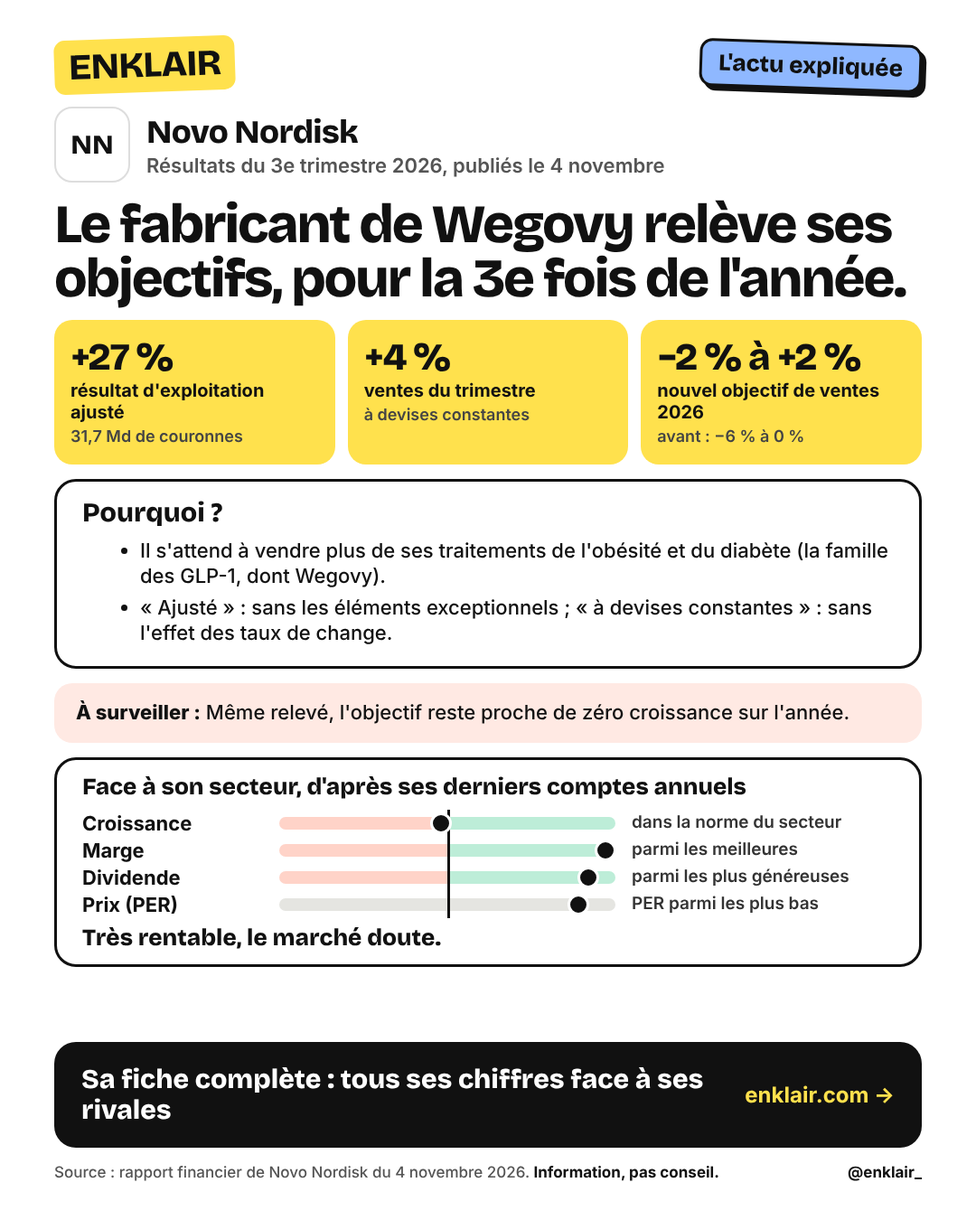
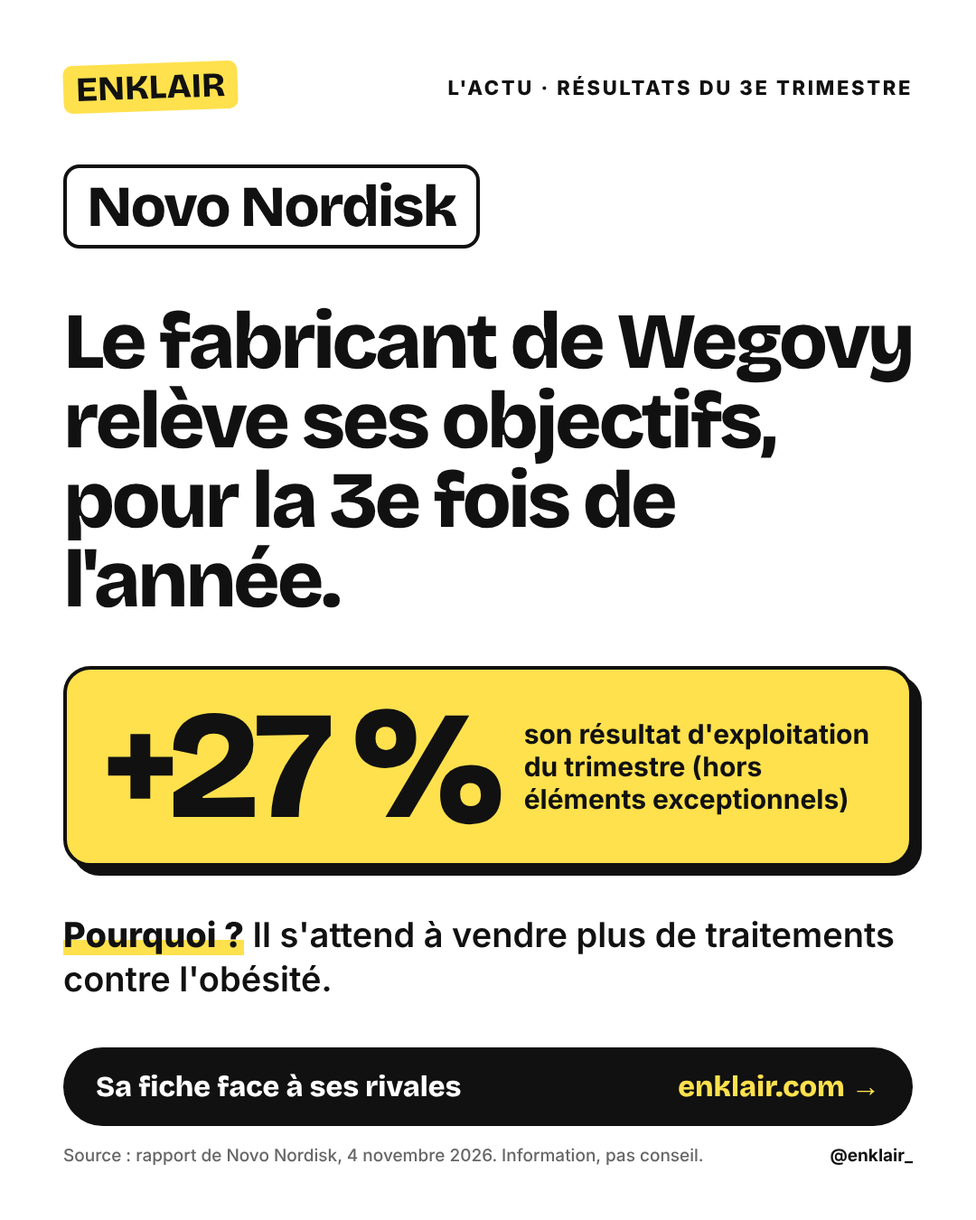
Contrôle de toutes les fiches et 148 fiches corrigées ; 5 fiches complètes par jour en gratuit ; page Premium ; posts
Claude-Session: https://claude.ai/code/session_01Jnxfj4FqaD4UGSiMxps8rU

diff --git a/cf/site/m/fiche4.js b/cf/site/m/fiche4.js
@@ -95,7 +95,9 @@ async function pageCompany4(id, tab) {
   if (s.missing || !c || !c.fin) { app.innerHTML = `<div class="ek ek-page">${f4Tete(s, null, null)}<p class="ek-note" style="margin-top:30px">Les comptes de ${esc(s.name)} ne sont pas encore relevés sur le site.</p></div>`; return; }
   const ctx = f4Ctx(s, c);
   let html = "";
-  try { html = f4Tete(s, c, ctx) + f4MetierSec(ctx) + f4Fil(ctx) + `<div id="f4-annee"></div>` + f4Fin(ctx); }
+  const qf = f4Quota(s.id); // 6/11 (Romain) : 5 fiches complètes par jour en gratuit
+  if (qf.bloque) { app.innerHTML = `<div class="ek ek-page">${f4Tete(s, c, ctx)}${f4Verrou(s)}</div>`; window.F4X = ctx; try { navigator.sendBeacon && navigator.sendBeacon("/api/compteur?e=fiche-verrou"); } catch (e) { } return; }
+  try { html = f4Tete(s, c, ctx) + f4QuotaNote(qf) + f4MetierSec(ctx) + f4Fil(ctx) + `<div id="f4-annee"></div>` + f4Fin(ctx); }
   catch (e) { console.error("fiche v4", e); html = f4Tete(s, c, ctx) + `<p class="ek-note">Une partie de la fiche n'a pas pu s'afficher.</p>`; }
   app.innerHTML = `<div class="ek ek-page">${html}</div>`;
   const kfx = f4Kfx(s.currency), md = app.querySelector(".ek-medl");
@@ -105,6 +107,30 @@ async function pageCompany4(id, tab) {
   const ANC = { "rf-resultats": "e1", "rf-rentab": "e2", "rf-dette": "e3", "rf-div": "e4", "rf-valo": "e5", "f3-metier": "metier", "tous-les-chiffres": "tout", "rf-concurrents": "tout", "concurrents": "tout" }; // anciennes ancres (liens déjà partagés)
   const h0 = location.hash.slice(1), cible = tab === "comptes" ? "tout" : (tab === "actualite" || tab === "agenda" || tab === "communaute") ? "actu" : (ANC[h0] || h0);
   if (cible) { const t = document.getElementById(cible); if (t) setTimeout(() => { if (t.tagName === "DETAILS") t.open = true; t.classList.add("f4m-open"); t.scrollIntoView({ block: "start" }); }, 30); }
+}
+
+/* 6/11 (décision de Romain) : en gratuit, 5 fiches complètes par jour (entreprises différentes, comptées dans ce navigateur, clé bilan.fichesJour).
+   Au-delà : l'en-tête et les 5 repères restent ouverts, la suite est réservée à Premium. Toujours ouvertes : Premium, les favoris,
+   les robots (moteurs de recherche, aperçus de liens) et une fiche déjà ouverte dans la journée. */
+const F4_LIBRES = 5;
+function f4Quota(id) {
+  const libre = { libre: true };
+  try {
+    if ((typeof isPrem === "function" && isPrem()) || navigator.webdriver || /bot|crawl|spider|slurp|preview|facebookexternalhit|embedly|lighthouse/i.test(navigator.userAgent || "") || (typeof isFav === "function" && isFav("c:" + id))) return libre;
+    const j = new Date().toLocaleDateString("sv-SE"); let q = null;
+    try { q = JSON.parse(localStorage.getItem("bilan.fichesJour") || "null"); } catch (e) { }
+    if (!q || q.d !== j || !Array.isArray(q.ids)) q = { d: j, ids: [] };
+    if (!q.ids.includes(id)) { if (q.ids.length >= F4_LIBRES) return { bloque: true }; q.ids.push(id); localStorage.setItem("bilan.fichesJour", JSON.stringify(q)); }
+    return { n: q.ids.indexOf(id) + 1 };
+  } catch (e) { return libre; }
+}
+function f4QuotaNote(qf) { return qf && qf.n ? `<p class="f4-qt"><b>Fiche gratuite ${qf.n} / ${F4_LIBRES} aujourd'hui</b><a href="/premium">Toutes les fiches avec Premium →</a></p>` : ""; }
+function f4Verrou(s) {
+  return `<section class="f4-lock"><span class="ek-stk2">★ Premium</span><h2>Vous avez ouvert vos ${F4_LIBRES} fiches gratuites du jour.</h2>
+    <p>La suite de la fiche de ${esc(s.name)} est réservée aux abonnés Premium :</p>
+    <ul><li>L'histoire de ses comptes en 4 étapes</li><li>Ses rivales, point par point</li><li>Tous ses chiffres sur 5 ans, avec la source</li><li>Son rang dans son secteur</li></ul>
+    <div class="f4-lock-b"><a class="f4-lock-go" href="/premium">Passer à Premium <small>dès 3,25 € par mois</small></a><span>ou revenez demain : ${F4_LIBRES} nouvelles fiches</span></div>
+    <p class="f4-lock-n">39 € pour un an (3,25 € par mois) ou 4,90 € par mois, sans engagement. Les entreprises que vous suivez en favori restent toujours ouvertes.</p></section>`;
 }
 
 // Logo officiel (collecté par le robot logos.yml dans /logos/<id>.png) ; sinon les initiales dans le même cadre
@@ -182,6 +208,7 @@ const f4Prochain = id => { const e = typeof eventsOf === "function" ? eventsOf(i
 function f4TitreSerie(gs, an) {
   if (!gs.length) return "";
   const [y1, g1] = gs[gs.length - 1], av = gs.slice(0, -1).map(z => z[1]), y0 = gs[0][0] - 1;
+  if (g1 <= -1) return `devenu négatif en ${y1}.`; // 6/11 : jamais « en baisse de 250 % »
   if (g1 < 0) return `en baisse de ${ekFr(-g1 * 100, 1)} % en ${y1}${av.length && av[av.length - 1] < 0 ? ", deuxième année de recul" : av.length && av.every(v => v > 0) ? `, premier recul depuis ${y0}` : ""}.`;
   const base = `en hausse de ${ekFr(g1 * 100, 1)} % en ${y1}`;
   if (av.length >= 2 && g1 < Math.min(...av)) return `${base}, sa plus faible progression depuis ${y0}.`;
@@ -194,7 +221,7 @@ function f4E1(x) {
   const gs = []; if (se) for (let i = 1; i < se.v.length; i++) if (se.v[i] != null && se.v[i - 1] > 0) gs.push([se.y[i], se.v[i] / se.v[i - 1] - 1]);
   const causes = [];
   const last = gs.length ? gs[gs.length - 1] : null, prev = gs.length > 1 ? gs[gs.length - 2] : null;
-  return { id: "e1", n: 1, sur: "Ses ventes", titre: f4TitreSerie(gs, s.year) || f4Montant(s.ca, cur, s.year), concept: s.ca != null ? { cle: "ventes", ex: f4Md(s.ca, cur), calc: `ventes ${s.year}`, nom: s.name } : null,
+  return { id: "e1", n: 1, sur: "Ses ventes", titre: (gs.length && se && gs[gs.length - 1][0] === se.y[se.y.length - 1] ? f4TitreSerie(gs, s.year) : "") || f4Montant(s.ca, cur, s.year), concept: s.ca != null ? { cle: "ventes", ex: f4Md(s.ca, cur), calc: `ventes ${s.year}`, nom: s.name } : null,
     mots: [{ cle: "ventes", ex: f4Md(s.ca, cur), calc: `ventes ${s.year}`, nom: s.name }, { cle: "croissance", ex: f4Pc(M.g, 1, true), calc: `${ekFr(s.ca, 0)} ÷ ${ekFr(s.caPrev, 0)} − 1`, nom: s.name }],
     visuel: se ? f4Cols(x, se, "Ses ventes", null, `Chaque barre donne les ventes d'un exercice ; sous l'année, la variation par rapport à l'année d'avant.${gs.length >= 2 ? ` Depuis ${se.y[0]} : ${f4Pc(se.v[se.v.length - 1] / se.v.find(v => v > 0) - 1, 0, true)}.` : ""}`) : "",
     explique: causes.length ? ekExplique({ causes, surveiller: f4Prochain(s.id) }) : "",
@@ -244,7 +271,11 @@ function f4E2(x) {
     .filter(r => r.v == null || r.v > -1000);
   const pl = rows.filter(r => r.v != null).sort((a, b) => b.v - a.v), hors = rows.filter(r => r.v == null);
   const mx = Math.max(10, ...pl.map(r => r.v)), nn = f4Nice(mx), mn = Math.min(0, ...pl.map(r => r.v));
-  const pts = P.mode === "rivales" ? [...pl.map(r => ({ ...r, v: Math.max(0, r.v) })), ...hors, ...P.out.map(o => ({ nom: o.nom, v: null, texte: o.raison }))] : pl.filter(r => r.moi).concat(hors.filter(r => r.moi));
+  // 6/11 : marges négatives placées à gauche de zéro (comme la rentabilité, f4B2) ; au-delà de -nn.max, au bord avec une flèche et le chiffre en note
+  const pasM = nn.ticks.length > 1 ? nn.ticks[1] - nn.ticks[0] : nn.max / 5, mnM = mn < 0 ? -Math.min(nn.max, Math.ceil(-mn / pasM) * pasM) : 0;
+  const gradM = []; for (let t = mnM; t <= nn.max + 1e-9; t += pasM) gradM.push(Math.round(t * 100) / 100);
+  const borneM = r => r.v < mnM ? { ...r, note: `est hors de l'échelle : ${r.texte} gardés sur 100 ${sym}.` } : r;
+  const pts = P.mode === "rivales" ? [...pl.map(borneM), ...hors, ...P.out.map(o => ({ nom: o.nom, v: null, texte: o.raison }))] : pl.filter(r => r.moi).map(borneM).concat(hors.filter(r => r.moi));
   const ratio = v != null && med > 0 ? v / med : null;
   const qui2 = P.qui, cmpM = ratio == null ? "" : ratio > 4 ? `Bien plus que ${qui2} (${ekFr(med * 100, 0)} ${sym})` : ratio >= 1.8 && ratio < 2.2 ? `Presque deux fois plus que ${qui2}` : ratio >= 1.15 ? `${ekFr(ratio, 1)} fois plus que ${qui2}` : ratio <= 0.85 ? `Moins que ${qui2} (${ekFr(med * 100, 0)} ${sym})` : `Comme ${qui2}`;
   const tonM = ratio == null ? "n" : ratio >= 1.15 ? "g" : ratio <= 0.85 || v < 0 ? "r" : "n";
@@ -266,8 +297,8 @@ function f4E2(x) {
   return { id: "e2", n: 2, sur: "Sa marge", titre, cmp: { texte: cmpM, ton: tonM },
     concept: v != null ? { cle: bank ? "benefice" : "marge", ex: f4Pc(v, 1), calc: !bank && s.ebit != null ? `${ekFr(s.ebit, 0)} ÷ ${ekFr(s.ca, 0)}` : "", nom: s.name } : null,
     mots: [{ cle: bank ? "benefice" : "marge", ex: v != null ? f4Pc(v, 1) : "", calc: !bank && s.ebit != null ? `${ekFr(s.ebit, 0)} ÷ ${ekFr(s.ca, 0)}` : "", nom: s.name }, { cle: "mediane", ex: med != null ? ekFr(med * 100, 0) + " " + sym : "", calc: `${lib} médiane ${P.de}`, nom: s.name }],
-    visuel: v != null && pl.length ? ekPoints({ titre: `Gardés sur 100 ${sym} de ventes`, unite: `${lib} ${s.year}`, lignes: pts, mediane: med != null ? med * 100 : 0, mediane_label: med != null ? `médiane ${ekFr(med * 100, 0)} ${sym}` : "", max: nn.max, graduations: nn.ticks, fmtAxe: t => ekFr(t, 0) + " " + sym,
-      indice: `Chaque point place une entreprise sur l'échelle. À droite du pointillé (zone verte), elle garde plus que la ${P.mode === "rivales" ? "rivale" : "société"} du milieu ; à gauche (zone rouge), moins.${mn < 0 ? " Une marge négative est placée sur zéro." : ""}`, source: f4Src(x, `Comptes ${s.year}`) }) : "",
+    visuel: v != null && pl.length ? ekPoints({ titre: `Gardés sur 100 ${sym} de ventes`, unite: `${lib} ${s.year}`, lignes: pts, mediane: med != null ? med * 100 : 0, mediane_label: med != null ? `médiane ${ekFr(med * 100, 0)} ${sym}` : "", min: mnM, max: nn.max, graduations: gradM, fmtAxe: t => ekFr(t, 0) + " " + sym,
+      indice: `Chaque point place une entreprise sur l'échelle. À droite du pointillé (zone verte), elle garde plus que la ${P.mode === "rivales" ? "rivale" : "société"} du milieu ; à gauche (zone rouge), moins.${mn < mnM ? " Une marge plus basse que l'échelle est posée au bord, avec une flèche." : ""}`, source: f4Src(x, `Comptes ${s.year}`) }) : "",
     explique: causes.length ? ekExplique({ causes, surveiller: ralentit ? "Si les ventes ralentissent encore, la marge peut baisser : une partie des coûts est fixe." : f4Prochain(s.id) }) : "",
     suite: "Et une fois l'impôt payé, que reste-t-il ?" };
 }
@@ -292,7 +323,8 @@ function f4E3(x) {
     if (ng != null) { // la cause principale, dans le sens de la variation
       const K = [["act", dE], ["imp", dT], ["fin", fin1 != null && fin0 != null ? fin1 - fin0 : null]].filter(z => z[1] != null && (ng < 0 ? z[1] < 0 : z[1] > 0)).sort((a, b) => Math.abs(b[1]) - Math.abs(a[1]))[0];
       const pq = ng < 0 ? { act: "l'activité rapporte moins", imp: "l'impôt a pris plus", fin: "les intérêts et divers pèsent plus" } : { act: "grâce à l'activité", imp: "l'impôt a pris moins", fin: "grâce aux intérêts et divers" };
-      titre = `${ng < 0 ? "en baisse" : "en hausse"} de ${ekFr(Math.abs(ng) * 100, 1)} % en ${y1}${K ? (ng < 0 || K[0] === "imp" ? ", car " : " ") + pq[K[0]] : ""}.`; }
+      // 6/11 (Stellantis : « en baisse de 508,7 % ») : un bénéfice devenu une perte se dit en montants, pas en pourcentage
+      titre = ng <= -1 ? `${f4Montant(s.net, cur, y1).replace(/\.$/, "")}, après ${f4Md(s.netPrev, cur)} de bénéfice en ${y1 - 1}${K ? ", car " + pq[K[0]] : ""}.` : `${ng < 0 ? "en baisse" : "en hausse"} de ${ekFr(Math.abs(ng) * 100, 1)} % en ${y1}${K ? (ng < 0 || K[0] === "imp" ? ", car " : " ") + pq[K[0]] : ""}.`; }
   }
   if (!bank && s.netDebt != null) causes.push(s.netDebt <= 0 ? { titre: "Plus d'argent en caisse que de dettes", texte: `Même en remboursant tous ses emprunts, il lui resterait ${f4Md(-s.netDebt, cur)} : elle ne dépend pas des banques.` }
     : { titre: s.ebit > 0 && s.netDebt / s.ebit < 2 ? "Une dette légère" : s.ebit > 0 && s.netDebt / s.ebit <= 3 ? "Une dette à surveiller" : "Une dette lourde", texte: s.ebit > 0 ? `Elle doit ${f4Md(s.netDebt, cur)} : ${s.netDebt / s.ebit < 1.5 ? (s.netDebt / s.ebit < 1 ? "moins d'une année" : "environ une année") + " de ce que rapporte son activité suffirait" : `environ ${ekFr(s.netDebt / s.ebit, 0)} années de ce que rapporte son activité suffiraient`} à la rembourser.` : `Elle doit ${f4Md(s.netDebt, cur)}, alors que son activité ne rapporte rien cette année.` });

diff --git a/cf/site/app.js b/cf/site/app.js
@@ -1802,7 +1802,7 @@ function rfVerdictMots(s) { // le verdict en deux ou trois éléments, déduits 
 const AX_ICON = { croissance: "M3 17l5-6 4 3 5-7 4 4", marge: "M5 19L19 5M7 9a2 2 0 1 0 0-4 2 2 0 0 0 0 4zM17 19a2 2 0 1 0 0-4 2 2 0 0 0 0 4z", solidite: "M12 3l8 4v5c0 5-3.5 8.5-8 9-4.5-.5-8-4-8-9V7z", dividende: "M12 21a9 9 0 1 0 0-18 9 9 0 0 0 0 18zM9 10h6M9 14h6M14 7c-3 0-4 2.5-4 5s1 5 4 5", prix: "M3 12l9-9h9v9l-9 9zM16 8h.01" }; // icônes SVG du site (4e passage 3.2), jamais d'émojis
 const axIcon = k => `<svg class="pa2-ic" viewBox="0 0 24 24" fill="none" stroke="currentColor" stroke-width="1.8" stroke-linecap="round" stroke-linejoin="round" aria-hidden="true"><path d="${AX_ICON[k] || AX_ICON.croissance}"/></svg>`;
 /* ---------- Premium : jeton gardé sur l'appareil, quotas, incitations ---------- */
-const TKEY = "bilan.premium", FREE = { pf: Infinity, cmp: 5 }; // 4/11 : portefeuille sans limite de lignes pour tous ; comparaisons : 5 par semaine (cf/src/quota.mjs)
+const TKEY = "bilan.premium", FREE = { pf: Infinity, cmp: 3 }; // 4/11 : portefeuille sans limite de lignes pour tous ; comparaisons : 5 par semaine (cf/src/quota.mjs)
 function premTok() { try { return localStorage.getItem(TKEY) || ""; } catch (e) { return ""; } }
 function setPremTok(t) { try { t ? localStorage.setItem(TKEY, t) : localStorage.removeItem(TKEY); } catch (e) { } PREM = null; }
 let PREM = null, PREMP = null;
@@ -1865,8 +1865,9 @@ async function pagePremium(sub) {
   const rows = [ // 4/11 (décision de Romain) : une fonction est gratuite en entier ou réservée à Premium, plus de demi-version
     ["Fiches, médianes du secteur, actualité, agenda, outils, simulateurs, Apprendre", "✓ tout", "✓ tout"],
     ["Mon portefeuille : saisie, valeur, plus-value", "✓ sans limite de lignes", "✓"],
-    ["Comparer des entreprises (5 à la fois)", "5 comparaisons par semaine", "✓ sans limite"],
-    ["Questions à l'IA du site", "5 par semaine", "✓ 30 par jour"],
+    ["Fiches entreprises complètes", "5 par jour", "✓ sans limite"],
+    ["Comparer des entreprises (5 à la fois)", "3 comparaisons par semaine", "✓ sans limite"],
+    ["Questions à l'IA du site", "3 par semaine", "✓ 30 par jour"],
     ["Connecteur pour Claude ou ChatGPT", "–", "✓"],
     [`Alertes du soir : résultats publiés, veille des rendez-vous, mouvement de plus de 5 %, dernier jour pour toucher un dividende, plus haut ou plus bas sur un an${robotActif("alertes") ? "" : BIENTOT}`, "–", "✓ sur toutes vos valeurs"],
     ["Rapport de la semaine, sur mesure, 12 semaines gardées", "–", "✓"],
@@ -1888,10 +1889,10 @@ async function pagePremium(sub) {
     <div class="offers">${offer("unique", "Un an", OFFRES.prix_unique || "39 € pour un an", "Un seul paiement, douze mois d'accès, sans renouvellement automatique.", OFFRES.unique)}${offer("mensuel", "Mensuel", OFFRES.prix_mensuel || "4,90 € par mois", "Sans engagement, résiliable en ligne en deux clics.", OFFRES.mensuel)}</div>${essai}${attente}`}
     </div>
     </section><section class="ek-sec"><span class="ek-stk2 b">Ce que vous obtenez</span><h2>Quatre services que le gratuit n'a pas.</h2><div class="pr4-sv">
-      <div class="pr4-c" id="ia">${ic("ia")}<b>L'IA qui vous répond</b><p><b>30 questions par jour</b> à l'IA du site (5 par semaine sans Premium), tirées des comptes officiels et des médianes du secteur. Et le <b>connecteur</b> : Claude ou ChatGPT lisent ENKLAIR pour vous répondre.</p></div>
+      <div class="pr4-c" id="ia">${ic("ia")}<b>L'IA qui vous répond</b><p><b>30 questions par jour</b> à l'IA du site (3 par semaine sans Premium), tirées des comptes officiels et des médianes du secteur. Et le <b>connecteur</b> : Claude ou ChatGPT lisent ENKLAIR pour vous répondre.</p></div>
       <div class="pr4-c" id="alertes">${ic("ag")}<b>Prévenu quand une valeur chute</b><p><b>Une baisse de plus de 5 % dans la journée : notification le soir même</b>, sur votre téléphone${OFFRES.mail ? ", par e-mail" : ""} et dans Mon espace. Et pour toutes vos valeurs : résultats publiés avec leurs chiffres clés, veille des rendez-vous, <b>dernier jour pour toucher un dividende</b>, plus haut ou plus bas sur un an. Et chaque samedi, <b>votre rapport de la semaine</b>.</p><p><a class="lnk" href="/rapport-exemple">Voir un rapport en exemple →</a></p></div>
       <div class="pr4-c" id="portefeuille">${ic("pub")}<b>Votre portefeuille radiographié</b><p>Ce que vous possédez vraiment à travers vos ETF, vos expositions par pays et par secteur, ce qu'une baisse coûterait en euros, le calendrier de vos dividendes.</p></div>
-      <div class="pr4-c" id="donnees">${ic("mk")}<b>Comparer et classer sans limite</b><p>Les comparaisons d'entreprises sans compter (5 par semaine sans Premium), les cinq classements complets et l'export des chiffres de chaque fiche.</p></div>
+      <div class="pr4-c" id="donnees">${ic("mk")}<b>Comparer et classer sans limite</b><p>Les comparaisons d'entreprises sans compter (3 par semaine sans Premium), les cinq classements complets et l'export des chiffres de chaque fiche.</p></div>
     </div></section><section class="ek-sec"><span class="ek-stk2 b">Pourquoi ENKLAIR</span><h2>Ce que votre IA ne fait pas.</h2><div class="prem5">${ARG.map(([k, t, d, id], i) => `<details class="prem-a" id="${id}"><summary>${ic(k)}<b>${esc(t)}</b><span>${esc(d)}</span><em>La preuve</em></summary><div class="prem-pv" data-pv="${i}"><p class="muted">Chargement…</p></div></details>`).join("")}</div></section>
     <section class="panel" id="tableau"><div class="ph"><h2>Gratuit pour toujours, et ce que Premium ajoute</h2></div><div class="pb scroll-x" style="overflow-x:auto"><table class="t ptab"><thead><tr><th></th><th>Gratuit</th><th>Premium</th></tr></thead><tbody>${rows.map(r => `<tr><td>${r[0]}</td><td>${r[1]}</td><td><b>${r[2]}</b></td></tr>`).join("")}</tbody></table>
       <p class="note" style="margin:10px 0 0">L'information n'est jamais cachée : toutes les fiches, les médianes et les outils restent gratuits, en entier.</p></div></section>
@@ -2286,7 +2287,7 @@ function espaceConnexion() {
   // 3/11 (v4) : bandeau jaune, avantages en cartes à icône, formulaire en carte blanche (mêmes identifiants : espf, lt, espgo, espm, swap, lost, cgu)
   const ic = k => typeof ou4Ic === "function" ? ou4Ic(k) : "";
   const BEN = [["listes", "Un rapport chaque semaine", "Ce que vos entreprises et ETF ont publié, leurs cours, leurs dates à venir, la répartition de votre portefeuille."],
-    ["alerte", "L'IA du site", "5 questions par semaine sur une entreprise, un ETF ou une notion, réponses tirées des chiffres du site."],
+    ["alerte", "L'IA du site", "3 questions par semaine sur une entreprise, un ETF ou une notion, réponses tirées des chiffres du site."],
     ["pf", "Partout pareil", "Vos favoris, votre portefeuille et vos achats programmés, sur votre téléphone et votre ordinateur."],
     ["agenda", "Votre agenda", "Les résultats et dividendes de vos valeurs, portefeuille d'abord."]];
   app.innerHTML = `<div class="ek ek-page es4"><section class="ek-hero es4-hero"><div class="es4-l"><span class="mc-stk">Mon espace</span><h1 class="ag4-t">Vos valeurs, au même endroit.</h1>

diff --git a/cf/site/m/premium5.js b/cf/site/m/premium5.js
@@ -12,10 +12,12 @@
     ["Le résumé de la semaine de vos valeurs, chaque samedi", no, no, no, no, ok],
     ["Annonces officielles du monde entier, traduites et chiffrées", no, mi("en partie"), mi("si vous lui donnez le texte"), mi("sur chaque fiche"), '<span class="ok">✓ pour vos valeurs</span>'],
     ["Alerte le soir même si une de vos valeurs chute", mi("selon le courtier"), mi("avec un compte"), no, no, ok],
-    ["Questions à une IA qui cite les comptes officiels", no, no, mi("sans source"), mi("5 par semaine"), '<span class="ok">30 par jour</span>'],
+    ["Toutes les fiches entreprises, en entier", no, mi("en partie"), mi("de mémoire"), mi("5 par jour"), '<span class="ok">Sans limite</span>'],
+    ["Questions à une IA qui cite les comptes officiels", no, no, mi("sans source"), mi("3 par semaine"), '<span class="ok">30 par jour</span>'],
     ["Brancher Claude ou ChatGPT sur les comptes officiels", no, no, no, no, ok],
     ["Chaque entreprise face à ses vraies rivales", no, mi("en partie"), mi("de mémoire"), ok, ok],
-    ["Comparaisons et classements", no, mi("en partie"), no, mi("5 par semaine"), '<span class="ok">Sans limite</span>'],
+    ["Comparaisons et classements", no, mi("en partie"), no, mi("3 par semaine, sans classement"), '<span class="ok">Sans limite</span>'],
+    ["Son rang dans son secteur", no, mi("en partie"), no, no, ok],
     ["Sans pousser à acheter ni à vendre", mi("vit de vos ordres"), mi("rarement"), ok, ok, ok],
   ];
   const av = (num, titre, txt, pts, ailleurs, vis, inv) => `<div class="pm5-av${inv ? " inv" : ""}"><div class="pm5-tx"><p class="pm5-num">${num}</p><h3>${titre}</h3><p class="pm5-lead">${txt}</p>
@@ -56,7 +58,8 @@
     app.innerHTML = `<div class="ek ek-page pm5">
     <section class="pm5-hero"><div><span class="mc-stk">Premium</span><h1>Ce que votre courtier ne vous dit pas.</h1>
       <p class="pm5-lead">ENKLAIR lit chaque jour les documents officiels de ${F0.format(nCo)} entreprises, les compare à leurs rivales et vous dit ce qui change pour vos placements. En français, sources à l'appui.</p>
-      <div class="pm5-b3"><div><i>📰</i><p><b>Chaque samedi, votre rapport</b><span>Ce qui s'est passé pour vos valeurs, en deux minutes.</span></p></div>
+      <div class="pm5-b3"><div><i>★</i><p><b>Toutes les fiches, sans limite</b><span>Plus de 3 000 entreprises, chacune face à ses rivales.</span></p></div>
+        <div><i>📰</i><p><b>Chaque samedi, votre rapport</b><span>Ce qui s'est passé pour vos valeurs, en deux minutes.</span></p></div>
         <div><i class="r">🔔</i><p><b>Prévenu si une valeur chute</b><span>Plus de 5 % de baisse dans la journée : notification le soir même.</span></p></div>
         <div><i class="b">◎</i><p><b>Vos ETF passés aux rayons X</b><span>Ce que vous possédez vraiment, entreprise par entreprise.</span></p></div></div>
       <a class="pm5-ex" href="/rapport-exemple"><span class="pm5-ex-i">📰</span><span><b>Voir un vrai rapport de la semaine</b><small>Calculé aujourd'hui avec les chiffres du site, pour un portefeuille d'exemple</small></span><em>→</em></a></div>
@@ -66,12 +69,12 @@
       ${av("1 · Vos ETF aux rayons X", "Ce que vous possédez vraiment, à travers vos ETF.", "Un ETF Monde, c'est plus de 1 300 entreprises. Premium les additionne avec vos actions pour vous montrer vos vraies expositions.", ["Vos expositions par pays et par secteur", "Ce qu'une forte baisse coûterait, en euros", "Le calendrier de vos dividendes", "Et sans limite : comparaisons, cinq classements, export des chiffres"], "Ailleurs : vous voyez « 1 ligne : ETF Monde », sans savoir ce qu'il y a dedans.", vPf, false)}
       ${av("2 · Votre rapport du samedi", "Le samedi, toute votre semaine en deux minutes.", "Ce que vos entreprises ont publié dans le monde entier, lu dans les documents officiels et traduit en français. Ce qui a fait bouger votre portefeuille. Ce qui arrive.", ["Résultats, rachats d'actions, accords et presse, entreprise par entreprise", "Ce que chaque ligne vous a fait gagner ou perdre, en euros", "Vos prochaines dates : résultats, dividendes, dernier jour pour les toucher"], `Ailleurs : personne ne lit pour vous les annonces de Paris, New York et Oslo.</p><p style="margin:14px 0 0"><a class="pm5-btn o" style="display:inline-flex" href="/rapport-exemple">Voir le rapport d'exemple de cette semaine →</a>`, vRap, true)}
       ${av("3 · Les alertes", "Une de vos valeurs chute ? Vous le savez le soir même.", "ENKLAIR surveille chaque soir votre portefeuille et vos favoris. Pas besoin d'ouvrir le site.", ["Baisse de plus de 5 % dans la journée : notification sur votre téléphone" + (OFFRES.mail ? " et par e-mail" : ""), "Résultats publiés, avec leurs chiffres clés", "Dernier jour pour acheter et toucher un dividende"], "Ailleurs : une alerte de cours, sans vous dire pourquoi.", vTel, false)}
-      ${av("4 · L'IA qui cite ses sources", "Posez vos questions, autant que vous voulez.", "Des réponses tirées des comptes officiels et comparées au secteur, avec leurs sources. Et vous pouvez brancher Claude ou ChatGPT sur ENKLAIR.", ["30 questions par jour, au lieu de 5 par semaine", "Chaque chiffre cité avec sa source", "Le connecteur pour votre propre IA"], "Ailleurs : une IA répond de mémoire, sans source ni comparaison au secteur.", vIa, true)}
+      ${av("4 · L'IA qui cite ses sources", "Posez vos questions, autant que vous voulez.", "Des réponses tirées des comptes officiels et comparées au secteur, avec leurs sources. Et vous pouvez brancher Claude ou ChatGPT sur ENKLAIR.", ["30 questions par jour, au lieu de 3 par semaine", "Chaque chiffre cité avec sa source", "Le connecteur pour votre propre IA"], "Ailleurs : une IA répond de mémoire, sans source ni comparaison au secteur.", vIa, true)}
     </section>
     <section class="pm5-sec ek-sec"><span class="ek-stk2">Comparez</span><h2>Ce que vous obtenez, et où.</h2>
       <div class="pm5-vsw"><div class="pm5-vs"><div><span></span><span>Votre courtier</span><span>Un site boursier gratuit</span><span>Une IA seule</span><span>ENKLAIR gratuit</span><span>ENKLAIR Premium</span></div>
       ${VS.map(r => `<div><span>${r[0]}</span>${r.slice(1).join("")}</div>`).join("")}</div></div>
-      <p class="pm5-vsn">Ce qu'on trouve en général : les services varient d'un courtier ou d'un site à l'autre. Toutes les fiches, les médianes et les outils d'ENKLAIR restent gratuits, en entier.</p></section>
+      <p class="pm5-vsn">Ce qu'on trouve en général : les services varient d'un courtier ou d'un site à l'autre. En gratuit, ENKLAIR garde ouverts 5 fiches complètes par jour, l'en-tête et les 5 repères de toutes les fiches, l'actualité, l'agenda, les outils et Apprendre.</p></section>
     <section class="pm5-sec ek-sec"><span class="ek-stk2 b">En confiance</span><h2>Simple à prendre, simple à quitter.</h2><div class="pm5-tr">
       <div><i>↺</i><b>Résiliable en deux clics</b><p>Depuis Mon espace. L'accès reste ouvert jusqu'à la fin du mois payé.</p></div>
       <div><i>🔒</i><b>Paiement par Stripe</b><p>ENKLAIR ne voit jamais votre numéro de carte.</p></div>

diff --git a/scripts/check-fiches-tout.js b/scripts/check-fiches-tout.js
@@ -1,0 +1,42 @@
+// Contrôle de cohérence de TOUTES les fiches (6/11/2026, après l'erreur Ubisoft) : chaque fiche est calculée dans la page
+// (mêmes fonctions que le site : f4Ctx, f4Tete, f4Fil, f4Fin) sans être affichée, puis son texte est passé à des règles :
+// valeurs impossibles (NaN, undefined, Infinity), « gagne -x », variation datée d'une autre année que les derniers comptes,
+// « garde tout son bénéfice » en perte, pourcentages absurdes, verdict d'une autre année, médiane négative présentée en vert.
+// Usage : node scripts/check-fiches-tout.js [N]   → rapport /tmp/check-fiches-tout.txt (0 problème attendu)
+const { ouvrir, aller } = require("./_site");
+const fs = require("fs");
+(async () => {
+  const N = +process.argv[2] || 0;
+  const { b, p } = await ouvrir();
+  await aller(p, "/entreprises", 3000);
+  const res = await p.evaluate(async (N) => {
+    await loadPrices(); if (typeof loadFiches === "function") await loadFiches();
+    const ids = R.companies.map(c => c.id).slice(0, N || undefined), out = [];
+    const txt = h => { const d = document.createElement("div"); d.innerHTML = h; d.querySelectorAll("svg text").forEach(t => t.textContent = " " + t.textContent + " "); return d.textContent.replace(/\s+/g, " "); };
+    for (const id of ids) {
+      const s = RBY[id]; let c;
+      try { c = FULL[id] || (FULL[id] = await (await fetch(`/data/societes/${id}.json`)).json()); } catch (e) { out.push([id, "fiche illisible"]); continue; }
+      if (!c || !c.fin) continue;
+      let h = "";
+      try { const x = f4Ctx(s, c); h = f4Tete(s, c, x) + f4Fil(x) + f4Fin(x); } catch (e) { out.push([id, "erreur de calcul : " + String(e).slice(0, 80)]); continue; }
+      const t = txt(h), pb = [];
+      if (/\bNaN\b|undefined|Infinity|\[object/.test(t)) pb.push("valeur impossible : " + (t.match(/.{0,40}(NaN|undefined|Infinity|\[object).{0,30}/) || [""])[0]);
+      if (/gagne -|gagne −/.test(t)) pb.push("« gagne » suivi d'un chiffre négatif");
+      for (const m of t.matchAll(/en (hausse|baisse) de [\d  ,]+ % en (\d{4})/g)) if (+m[2] !== +s.year && /Bénéfice net|Chiffre d'affaires|Ses ventes|Son bénéfice/.test(t.slice(Math.max(0, m.index - 80), m.index))) pb.push(`variation datée ${m[2]} alors que les derniers comptes sont de ${s.year}`);
+      if (s.net != null && s.net < 0 && /garde tout son bénéfice/.test(t)) pb.push("« garde tout son bénéfice » alors qu'elle est en perte");
+      for (const m of t.matchAll(/(?<![\d,.])([−-]?\d{1,3}(?:\u202f\d{3})*(?:,\d+)?)\s?%/g)) { const v = Math.abs(+m[1].replace(/\u202f/g, "").replace(",", ".").replace("−", "-")); if (v > 5000) pb.push("pourcentage hors de toute mesure : " + m[0]); }
+      const vd = t.match(/Le verdict (\d{4})/); if (vd && +vd[1] !== +s.year) pb.push(`verdict ${vd[1]} pour des comptes ${s.year}`);
+      for (const m of t.matchAll(/(baisse|recul\w*) de (\d[\d\u202f]*(?:,\d+)?) %/g)) if (+m[2].replace(/\u202f/g, "").replace(",", ".") > 100) pb.push("baisse de plus de 100 % (une perte se dit autrement) : " + m[0]);
+      if (/Son capital grandit plus vite que ses gains/.test(t) && /actionnaires a reculé/.test(t)) pb.push("« son capital grandit » alors qu'il recule");
+      if (/Plus que (ses rivales|son secteur)[^.]{0,40}Moins que (ses rivales|son secteur)/.test(t) && false) pb.push("");
+      pb.forEach(z => out.push([id, z]));
+    }
+    return { n: ids.length, out };
+  }, N);
+  const lignes = res.out.map(([id, z]) => `${id} : ${z}`);
+  fs.writeFileSync("/tmp/check-fiches-tout.txt", lignes.join("\n") + "\n");
+  const parType = {}; res.out.forEach(([, z]) => { const k = z.replace(/[\d ,.:«»-]+/g, " ").slice(0, 60); parType[k] = (parType[k] || 0) + 1; });
+  console.log(`${res.n} fiches calculées, ${res.out.length} problème(s). Rapport : /tmp/check-fiches-tout.txt`);
+  Object.entries(parType).sort((a, b) => b[1] - a[1]).slice(0, 12).forEach(([k, v]) => console.log("  " + v + " × " + k));
+  await b.close();
+})();

diff --git a/cf/site/composants.css b/cf/site/composants.css
@@ -1836,3 +1836,20 @@ a.s9-src{display:inline!important;width:auto!important;min-height:0!important}
 .ek .ax4-prx{padding:0 14px 12px 60px}
 .ek .ax4-prx .ax-cl{margin-top:4px}
 @media (max-width:600px){.ek .ax4-prx{padding-left:14px}}
+/* 6/11 : limite du gratuit sur la fiche (m/fiche4.js, f4QuotaNote, f4Verrou) */
+.ek .f4-qt{display:flex;flex-wrap:wrap;gap:6px 16px;align-items:center;justify-content:center;margin:14px 0 0;font:600 14px Inter;color:#444}
+.ek .f4-qt b{font-weight:800;color:#111;border:2px solid #111;border-radius:999px;padding:4px 12px;background:#fff}
+.ek .f4-qt a{color:#111;font-weight:800;text-decoration:underline;text-decoration-color:var(--ek-y,#FFE14D);text-decoration-thickness:3px;text-underline-offset:3px}
+.ek .f4-lock{max-width:760px;margin:40px auto 10px;background:#fff;border:3px solid #111;border-radius:28px;box-shadow:8px 8px 0 #111;padding:30px 34px}
+.ek .f4-lock h2{font:800 34px/1.05 'Bricolage Grotesque',sans-serif;letter-spacing:-.03em;margin:14px 0 10px}
+.ek .f4-lock>p{font:500 17px/1.45 Inter;color:#333}
+.ek .f4-lock ul{list-style:none;padding:0;margin:14px 0 20px;display:grid;grid-template-columns:1fr 1fr;gap:10px}
+.ek .f4-lock li{font:600 15px/1.3 Inter;background:#FFF6C7;border-radius:12px;padding:10px 12px}
+.ek .f4-lock-b{display:flex;flex-wrap:wrap;gap:12px 16px;align-items:center}
+.ek .f4-lock-go{background:#111;color:#fff;font:800 17px Inter;padding:14px 22px;border-radius:999px;text-decoration:none}
+.ek .f4-lock-go small{color:#FFE14D;font-weight:800;margin-left:6px}
+.ek .f4-lock-b span{font:700 15px Inter;color:#444}
+.ek .f4-lock-n{font:500 13.5px/1.4 Inter;color:#666;margin-top:14px}
+@media (max-width:600px){.ek .f4-lock{padding:22px 20px;margin-top:28px}.ek .f4-lock h2{font-size:27px}.ek .f4-lock ul{grid-template-columns:1fr}}
+.ek .f4-lock>.ek-stk2{display:inline-block;background:#FFE14D;border:2px solid #111;border-radius:9px;padding:4px 12px;font:800 15px "Bricolage Grotesque",sans-serif;transform:rotate(-2deg)}
+@media (max-width:600px){.ek .f4-lock-go small{display:block;margin:2px 0 0}}

diff --git a/cf/site/m/monia.js b/cf/site/m/monia.js
@@ -122,7 +122,7 @@ async function miaPage(el) {
       <ol class="mia-etapes"><li><b>D'abord, le calcul.</b> Recherches par critères, comparaisons, définitions, questions courantes sur une fiche : le site calcule la réponse dans votre navigateur, sans limite.</li>
         <li><b>Ensuite, la rédaction.</b> Pour une question libre, un modèle ouvert (Qwen3 ou Mistral Small), hébergé par Cloudflare, rédige la réponse à partir des seuls chiffres et sources du site, avec des consignes strictes : pas de conseil, pas de prévision, les incertitudes dites.</li>
         <li><b>Chaque réponse rédigée est signalée</b> et cite ses sources. Vérifiez-la : une IA peut se tromper.</li></ol>
-      <p class="mia-prix" id="miareste">L'IA du site répond à 5 questions par semaine en gratuit, avec ou sans compte, et à 30 questions par jour avec Premium.</p>
+      <p class="mia-prix" id="miareste">L'IA du site répond à 3 questions par semaine en gratuit, avec ou sans compte, et à 30 questions par jour avec Premium.</p>
       <ul class="mia-garanties"><li>Aucun compte, aucune clé à fournir.</li><li>Vos questions sont envoyées à Cloudflare, qui héberge déjà le site, pour être traitées ; elles ne servent pas à entraîner le modèle. Le site ne garde pas leur texte, seulement un compteur anonyme.</li></ul>
     </div></section>
     <section class="panel"><div class="ph"><h2>Vous utilisez déjà ChatGPT ou Claude ?</h2></div><div class="pb"><p style="margin-top:0">Ajoutez ENKLAIR à votre assistant : il pourra lire les données du site pour vous répondre.</p><a class="lnk" href="/connecteur">Utiliser ENKLAIR dans ChatGPT ou Claude</a></div></section></div>`;

diff --git a/cf/site/m/comparer4.js b/cf/site/m/comparer4.js
@@ -213,7 +213,7 @@ function cxGalerie() {
     <div class="cx-gal" id="cx-gal">${P.map(cxCartePreset).join("")}</div></section>`;
 }
 
-// ——— Quota des gratuits (4/11) : 5 comparaisons par semaine, comptées par le serveur ; en cas de panne, la page s'ouvre ———
+// ——— Quota des gratuits (4/11, 3 depuis le 6/11) : comparaisons par semaine, comptées par le serveur ; en cas de panne, la page s'ouvre ———
 async function cxQuota(ids) {
   if (typeof isPrem === "function" && isPrem()) return { ok: true };
   try { const r = await fetch("/api/quota/comparer", { method: "POST", credentials: "same-origin", headers: { "content-type": "application/json" }, body: JSON.stringify({ ids }) });
@@ -228,7 +228,7 @@ async function pageComparer4() {
   app.innerHTML = `<div class="ek ek-page"><div class="empty">Chargement…</div></div>`;
   await PXP; if (typeof premStatus === "function") await premStatus().catch(() => null);
   if (location.pathname !== "/comparer" || location.search !== s0) return;
-  const CMAX = 5; // 4/11 : 5 entreprises pour tous ; les gratuits ont 5 comparaisons par semaine (cxQuota)
+  const CMAX = 5; // 4/11 : 5 entreprises pour tous ; les gratuits ont 3 comparaisons par semaine (cxQuota)
   const raw = [...new Set((new URLSearchParams(location.search).get("ids") || "").split(",").map(x => x.trim()).filter(id => RBY[id]))];
   const ids = raw.slice(0, CMAX), cut = raw.slice(CMAX).map(id => RBY[id]);
   await Promise.all(ids.map(id => { const s = RBY[id]; if (s.missing || FULL[id]) return null; return fetch(`/data/societes/${id}.json`).then(r => r.ok ? r.json() : null).then(j => { if (j) FULL[id] = j; }).catch(() => null); }));

diff --git a/cf/site/m/annee4.js b/cf/site/m/annee4.js
@@ -67,6 +67,7 @@ function an4Dessiner(x) {
   const per = (a, b) => `${a.m.split("-")[0]} ${a.yd} à ${b.m.split("-")[1]} ${b.y}`;
   const de = /^[aeiouyhéèêâîôûAEIOUYHÉÈÊÂÎÔÛ]/.test(nomE) ? `d'${nomE}` : `de ${nomE}`, quoi = { ca: `les ventes ${de} ont`, net: `le bénéfice ${de} a`, mg: "" }[M];
   const titre = M === "mg" ? `Sur les 12 derniers mois, ${esc(nomE)} a gardé <em class="${e != null && e < 0 ? "dn" : ""}">${ekFr(tA, 1)} %</em> de ses ventes en bénéfice.`
+    : tV > 0 && tA < 0 ? `Sur les 12 derniers mois, ${esc(quoi.replace(/ (ont|a)$/, ""))} ${M === "ca" ? "sont devenues négatives" : "est devenu une perte"} : <em class="dn">${fmt(tA, M)}</em>, contre ${fmt(tV, M)} un an plus tôt.` // 6/11 : plus de « reculé de 240 % » (Kemper)
     : tV > 0 && Math.abs(e) < 0.5 ? `Sur les 12 derniers mois, ${esc(quoi)} <em>à peine bougé</em> (${evT(e, M)}).`
     : tV > 0 ? `Sur les 12 derniers mois, ${esc(quoi)} ${e >= 0 ? "progressé" : "reculé"} de <em class="${e < 0 ? "dn" : ""}">${ekFr(Math.abs(e), 0)} %</em>.`
     : `Sur les 12 derniers mois, ${esc(quoi)} atteint <em>${fmt(tA, M)}</em>.`;

diff --git a/CLAUDE.md b/CLAUDE.md
@@ -37,10 +37,10 @@ Script principal `cf/site/app.js` (routes, données, recherche, Premium, Mon esp
 - Docs : `docs/architecture.md`, `docs/ia.md`, `docs/conformite.md` (à faire par Romain et un avocat), `docs/premium-2026-11.md` (gratuit / Premium), `docs/fournisseurs-comptes.md`, `docs/reste-a-faire.md`, `docs/strategie-2027.md`.
 
 ## Gratuit / Premium (décision de Romain : une fonction est gratuite en entier ou Premium)
-Gratuit : fiches, actualité, agenda, outils, Apprendre, portefeuille, Comparer (5 par semaine), IA du site 5 questions par semaine. Premium (39 €/an, 4,90 €/mois) : rapport de la semaine, alertes (chute de plus de 5 %, e-mail si un service est configuré), connecteur MCP, classements, radiographie du portefeuille, export CSV, IA 30 questions par jour. **Paiement Stripe branché le 5/11** (deux liens de paiement : mensuel 4,90 € et un an 39 € ; retour vers /premium/merci?session_id=… ; clé restreinte : sessions Checkout et abonnements en lecture, portail client en écriture ; portail client activé, annulation en fin de période). **Espace obligatoire avant de payer** : sans connexion, « Choisir cette formule » mène à /espace?payer=mensuel|unique, puis `moi()` (app.js) envoie vers le lien Stripe avec `prefilled_email` ; un code Premium du navigateur est rattaché au compte par `moi()` (/api/espace/premium). Résiliation : bouton « Gérer ou résilier mon abonnement » de la page Premium (portail Stripe). **E-mails (Brevo) pas encore branchés.**
+Gratuit (6/11) : 5 fiches complètes par jour (en-tête et 5 repères toujours ouverts ; favoris, Premium et robots non comptés : `f4Quota` de fiche4.js), actualité, agenda, outils, Apprendre, portefeuille, Comparer (3 par semaine), IA du site 3 questions par semaine. Premium (39 €/an, 4,90 €/mois) : toutes les fiches, rang dans le secteur, rapport de la semaine, alertes (chute de plus de 5 %, e-mail si un service est configuré), connecteur MCP, classements, radiographie du portefeuille, export CSV, IA 30 questions par jour. **Paiement Stripe branché le 5/11** (deux liens de paiement : mensuel 4,90 € et un an 39 € ; retour vers /premium/merci?session_id=… ; clé restreinte : sessions Checkout et abonnements en lecture, portail client en écriture ; portail client activé, annulation en fin de période). **Espace obligatoire avant de payer** : sans connexion, « Choisir cette formule » mène à /espace?payer=mensuel|unique, puis `moi()` (app.js) envoie vers le lien Stripe avec `prefilled_email` ; un code Premium du navigateur est rattaché au compte par `moi()` (/api/espace/premium). Résiliation : bouton « Gérer ou résilier mon abonnement » de la page Premium (portail Stripe). **E-mails (Brevo) pas encore branchés.**
 
 ## Avant de pousser (compétence `bilan-mise-en-ligne`)
-`node build.mjs` puis `git checkout -q cf/site/data/gf*.csv` (ne jamais committer gf*.csv à la main) ; `node scripts/check-doublons.js`, `node scripts/check-coherence.js`, `node tests/t_coherence.mjs` ; fiche : `node scripts/relire-visuel.js 20` et `node scripts/relire-fiches.js 40` (0 problème attendu, lire le rapport) ; pages : `node scripts/relire-pages.js` ; serveur modifié : `npx esbuild cf/src/worker.mjs --bundle --format=esm --outfile=/tmp/w.js` ; puis une seule fois `timeout 590 python3 tests/audit.py` (0 problème). Captures locales : `scripts/_site.js` (`ouvrir`, `aller`). Pousser : `git pull -q --rebase --autostash origin main && git push -q origin HEAD:main`.
+`node build.mjs` puis `git checkout -q cf/site/data/gf*.csv` (ne jamais committer gf*.csv à la main) ; `node scripts/check-doublons.js`, `node scripts/check-coherence.js`, `node tests/t_coherence.mjs` ; fiche : `node scripts/check-fiches-tout.js` (les 3 300 fiches, 40 s), `node scripts/relire-visuel.js 20` et `node scripts/relire-fiches.js 40` (0 problème attendu, lire le rapport) ; pages : `node scripts/relire-pages.js` ; serveur modifié : `npx esbuild cf/src/worker.mjs --bundle --format=esm --outfile=/tmp/w.js` ; puis une seule fois `timeout 590 python3 tests/audit.py` (0 problème). Captures locales : `scripts/_site.js` (`ouvrir`, `aller`). Pousser : `git pull -q --rebase --autostash origin main && git push -q origin HEAD:main`.
 
 ## Devises (5/11 soir, décision de Romain)
 Sur la fiche, tout montant hors euro est converti en euros au taux BCE du jour et marqué « * » (`f4Md`, `f4Par`, `f4Cols` de fiche4.js) ; une seule note sous les repères (`.ek-fx`) ; cours de l'action dans sa devise avec « ≈ … €* » discret ; « sur 100 € » pour les rapports (sans devise). Plus jamais de « (≈ … €) » en ligne. Les tableaux de « Tous les chiffres » restent dans la devise des comptes.

diff --git a/docs/journal.md b/docs/journal.md
@@ -152,3 +152,4 @@ Propriétaire : Romain. Répondre en français, simplement, sans jargon techniqu
 - 6/11 soir (capture de Romain) : accueil, flèche entre « Elle seule » et « Face aux autres » (`.a4-step+.a4-step:before`, site.css) : pastille jaune ronde à contour noir centrée dans l'espace entre les deux cartes (elle mordait sur le bord de la carte jaune) ; « ↓ » centré sur téléphone.
 - 6/11 soir (captures de Romain) : **logos coupés** dans la liste Entreprises (règle « html #app .e3-co img » à 36 px dans une case plus petite, dont le dépassement était caché) : règle commune `html #app .lg>img` en fin de site.css (74 % de la case, contain) ; contrôle sur 10 pages en téléphone et ordinateur, aucun logo ne dépasse. **Fiche : rang dans le secteur réservé à Premium** (f4Metier, m/fiche4.js : case jaune « ★ Premium, son rang parmi les N entreprises du secteur, Débloquer avec Premium → »). Posts du jour fabriqués par scripts/posts.js (posts/2026-11-06).
 - 6/11 soir (capture de Romain, Ubisoft) : **fiche, rentabilités et pertes** : étape « Sa rentabilité » (f4B2) : rentabilité négative placée à gauche de zéro (échelle avec un minimum ; avant toutes posées sur zéro et en vert), valeur hors échelle au bord avec une flèche vers la gauche (`lx`, ekPoints) et son chiffre en note, titre « elle perd X € par an sur 100 € », comparaison à une médiane négative sur sa valeur absolue, cause « Son bénéfice est devenu une perte » ; étape « Son bénéfice » (f4B1) : la variation n'est dite que pour la dernière année (Ubisoft affichait « en baisse de 254,3 % en 2025 » pour 2026), sinon « une perte de 1,5 Md€ en 2026, après une perte de 244 M€ en 2025 » ; dividende : « elle est en perte cette année » au lieu de « elle garde tout son bénéfice ». Posts « L'actu expliquée » (Chevron, Novo Nordisk) dans docs/communication/posts-2026-11-06 ; maquette docs/maquettes/limite-gratuit.html (5 fiches par jour, en attente de Romain). Signalé : Uber, deux annonces contradictoires dans le fil (8-K « bénéfice +30 % » et 10-Q « −92 % »).
+- 6/11 soir (Romain : « je t'avais demandé de vérifier les incohérences ») : **nouveau contrôle `scripts/check-fiches-tout.js`** : les 3 293 fiches calculées dans la page avec les fonctions du site (f4Tete, f4Fil, f4Fin), texte passé à des règles (NaN/undefined, « gagne » négatif, variation datée d'une autre année, « garde tout son bénéfice » en perte, baisse de plus de 100 %, verdict d'une autre année, pourcentages absurdes) ; 40 s, ajouté au protocole de CLAUDE.md. Il a trouvé 148 fiches fausses, corrigées : « en baisse de 508,7 % » (Stellantis, Fnac Darty, SES, Soitec… : f4E3 dit « une perte de 22,4 Md€ en 2025, après 5,5 Md€ de bénéfice en 2024 » ; f4TitreSerie : « devenu négatif » au-delà de −100 %), variation de l'année d'avant présentée comme la dernière (Nanobiotix, f4E1), « Ses derniers trimestres » (annee4.js) : « le bénéfice est devenu une perte : … contre … » au lieu de « a reculé de 240 % » (Kemper) ; marge négative placée à gauche de zéro dans « Sa marge » (f4E2, comme f4B2). **Limite du gratuit (maquette validée)** : `f4Quota` / `f4QuotaNote` / `f4Verrou` (m/fiche4.js, CSS .f4-qt et .f4-lock de composants.css) : 5 fiches complètes par jour (clé bilan.fichesJour), puis en-tête et 5 repères seulement ; favoris, Premium, robots et fiche déjà ouverte non comptés ; compteur « fiche-verrou ». Comparer 3 par semaine (cf/src/quota.mjs, test t_quota), IA 3 questions par semaine (iasite.mjs). Page Premium (m/premium5.js) : « Toutes les fiches, sans limite » en tête, tableau avec les lignes fiches et rang dans le secteur, chiffres 3 par semaine ; tableau de l'ancienne page (app.js), monia.js, CGV (legal.json) mis d'accord. Posts refaits (Chevron, Visa, Novo Nordisk) : moins de texte, logo, un titre, un chiffre, une raison, renvoi vers la fiche.
